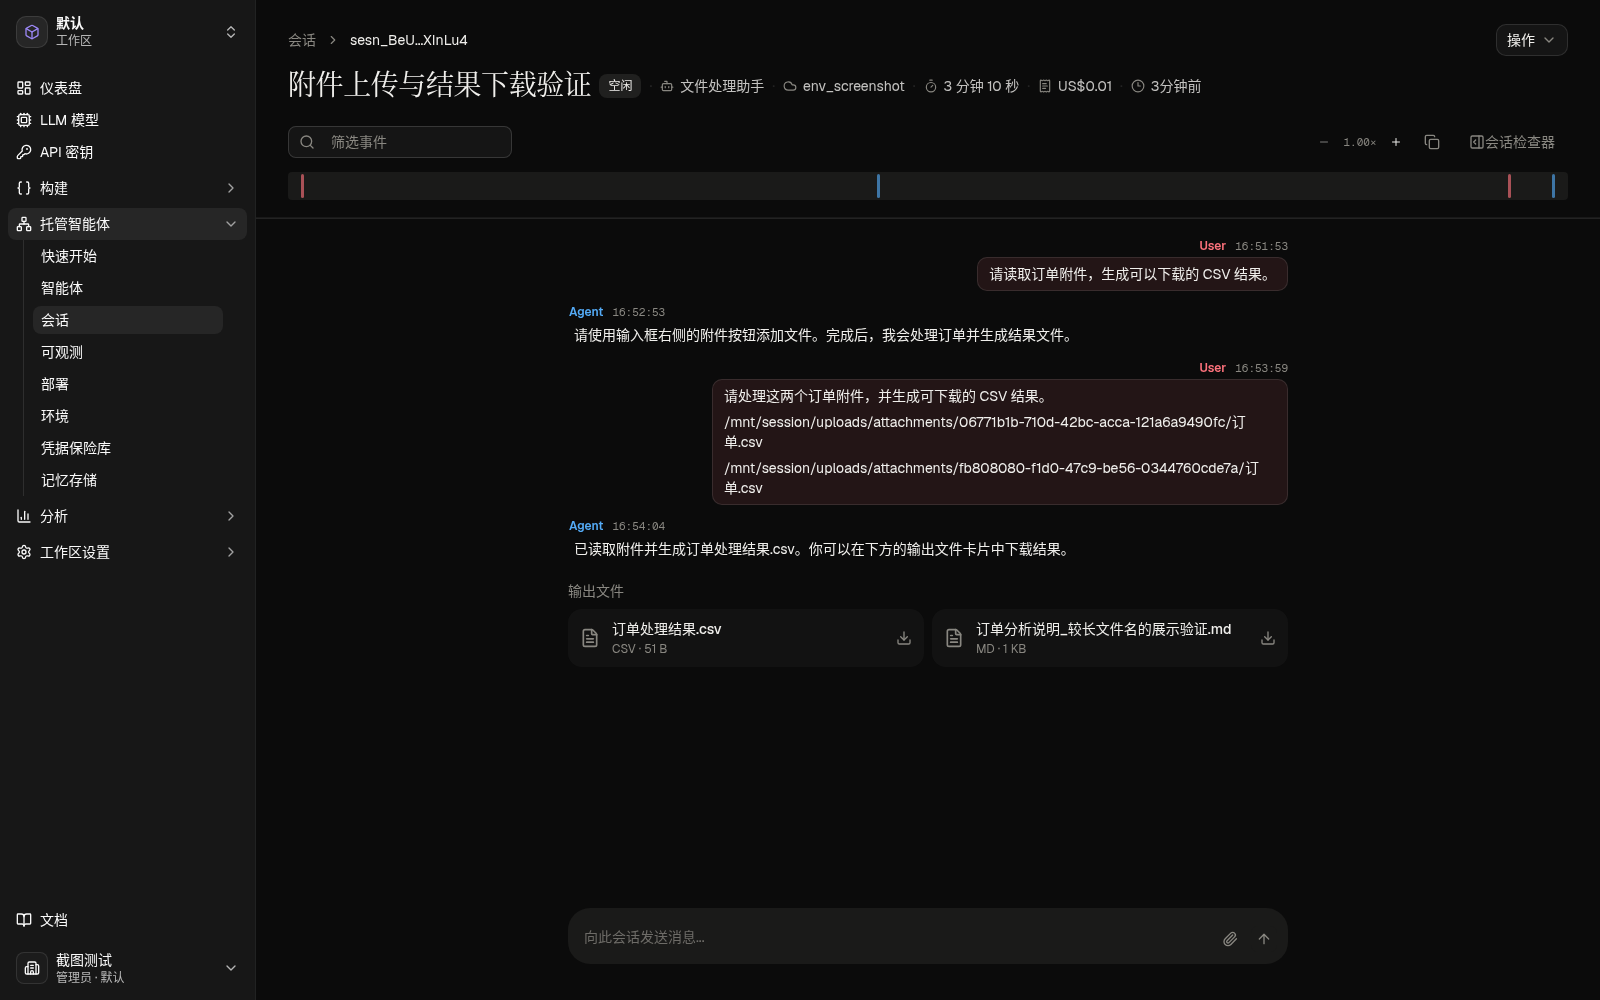
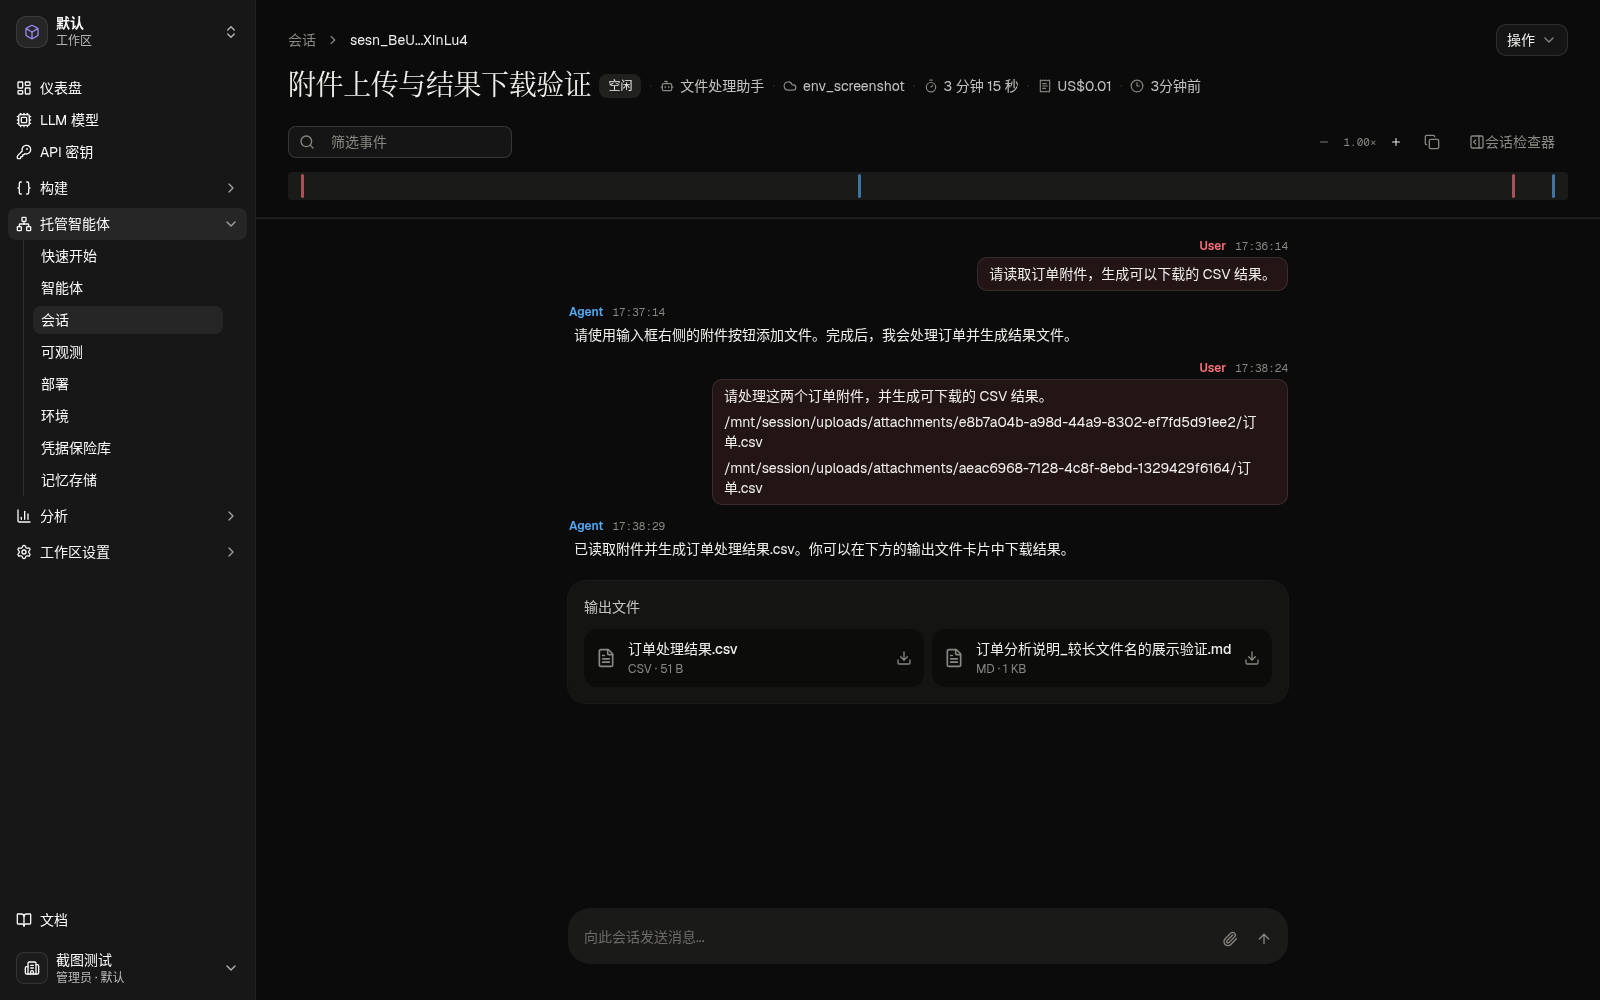
style(web): distinguish session output files from chat messages

diff --git a/web/src/features/managed-agents/sessions/SessionOutputFiles.tsx b/web/src/features/managed-agents/sessions/SessionOutputFiles.tsx
@@ -1,6 +1,7 @@
 import { Download, FileText, LoaderCircle } from 'lucide-react';
 import { useFormatters, useI18n } from '../../../shared/i18n';
 import { Button } from '../../../shared/ui/button';
+import { Card } from '../../../shared/ui/card';
 import { MessageScrollerItem } from '../../../shared/ui/message-scroller';
 import type { FileMetadataApiResponse, SessionApiResponse } from '../types';
 import { errorMessage } from '../utils';
@@ -28,17 +29,18 @@ function SessionOutputFilesContent({ session, workspaceId, refreshKey }: Session
   if (!files.length && !error) return null;
   return (
     <MessageScrollerItem messageId={`session-output-files-${session.id}`} className="mt-5">
-      <section
-        className="@container"
+      <Card
+        role="region"
+        className="@container gap-0 rounded-2xl bg-muted/60 p-3 ring-border/60 sm:p-4"
         data-testid="session-output-files"
         aria-label={msg('managedAgents.sessions.outputs.title', 'Output files')}
       >
         {files.length ? (
           <>
-            <h3 className="text-sm font-medium text-muted-foreground">
+            <h3 className="text-sm font-medium text-foreground/80">
               {msg('managedAgents.sessions.outputs.title', 'Output files')}
             </h3>
-            <div className="mt-2 grid grid-cols-1 gap-2 @min-[480px]:grid-cols-2">
+            <div className="mt-3 grid grid-cols-1 gap-2 @min-[480px]:grid-cols-2">
               {files.map((file) => (
                 <SessionOutputFileCard key={file.id} file={file} workspaceId={workspaceId} />
               ))}
@@ -54,7 +56,7 @@ function SessionOutputFilesContent({ session, workspaceId, refreshKey }: Session
             </Button>
           </div>
         ) : null}
-      </section>
+      </Card>
     </MessageScrollerItem>
   );
 }
@@ -72,7 +74,7 @@ function SessionOutputFileCard({ file, workspaceId }: { file: FileMetadataApiRes
       aria-busy={downloading}
       aria-label={msg('files.downloadAria', 'Download {filename}', { filename: file.filename })}
       title={file.filename}
-      className="h-auto min-w-0 justify-start gap-3 rounded-xl border-0 bg-muted/55 px-3 py-2.5 text-left font-normal hover:bg-muted/80 dark:hover:bg-muted"
+      className="h-auto min-w-0 justify-start gap-3 rounded-xl border-0 bg-background/85 px-3 py-2.5 text-left font-normal hover:bg-background dark:hover:bg-background"
       onClick={() => void download(file)}
     >
       <FileText className="size-5 shrink-0 text-muted-foreground" aria-hidden />
